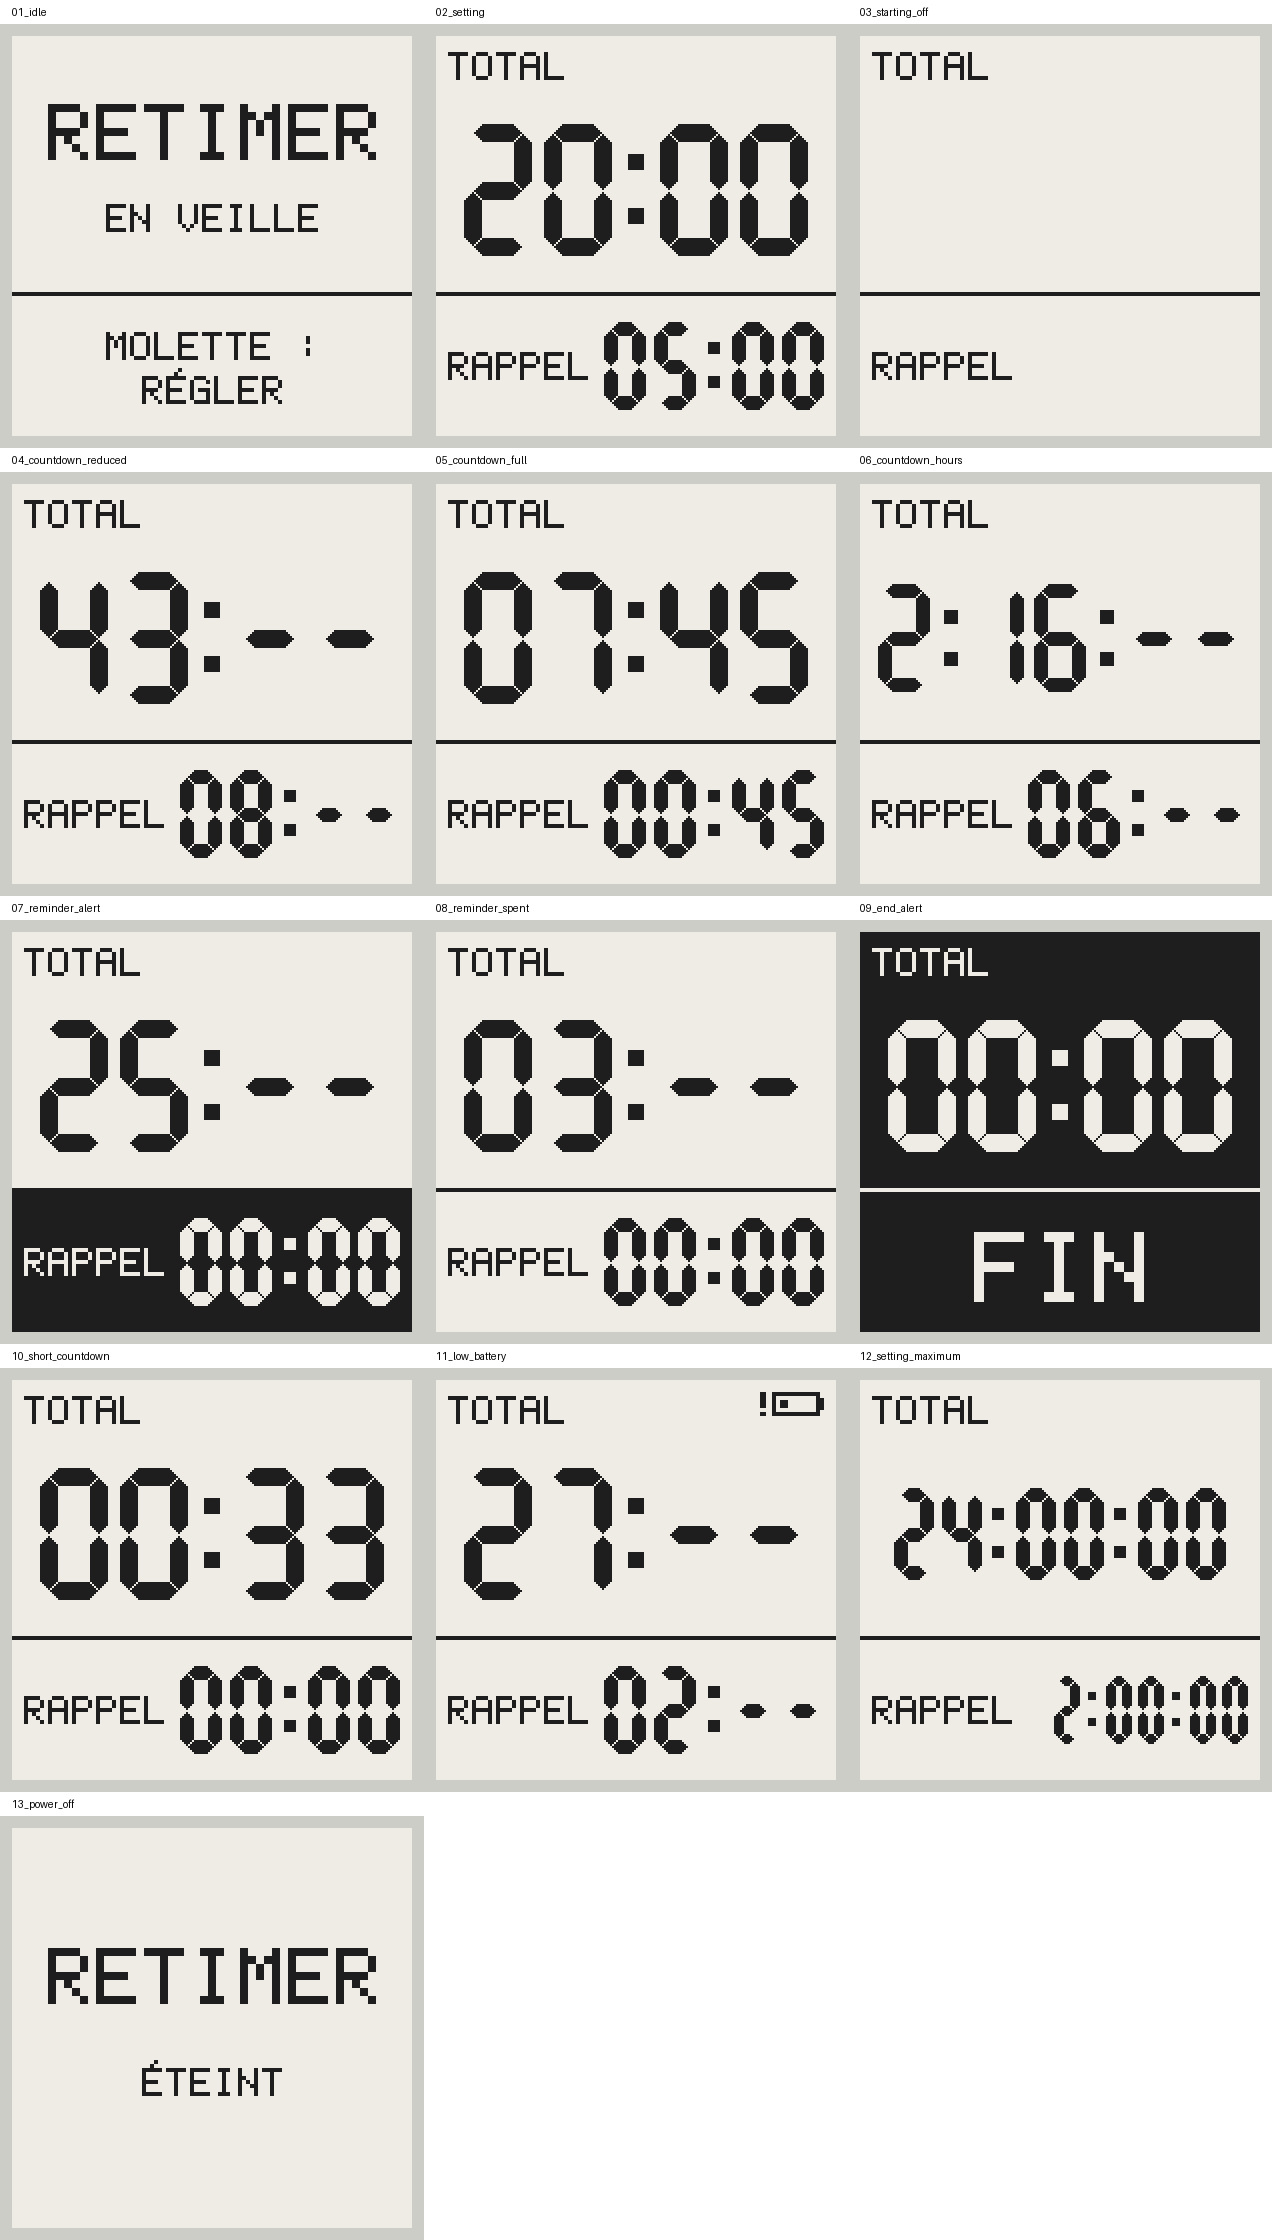
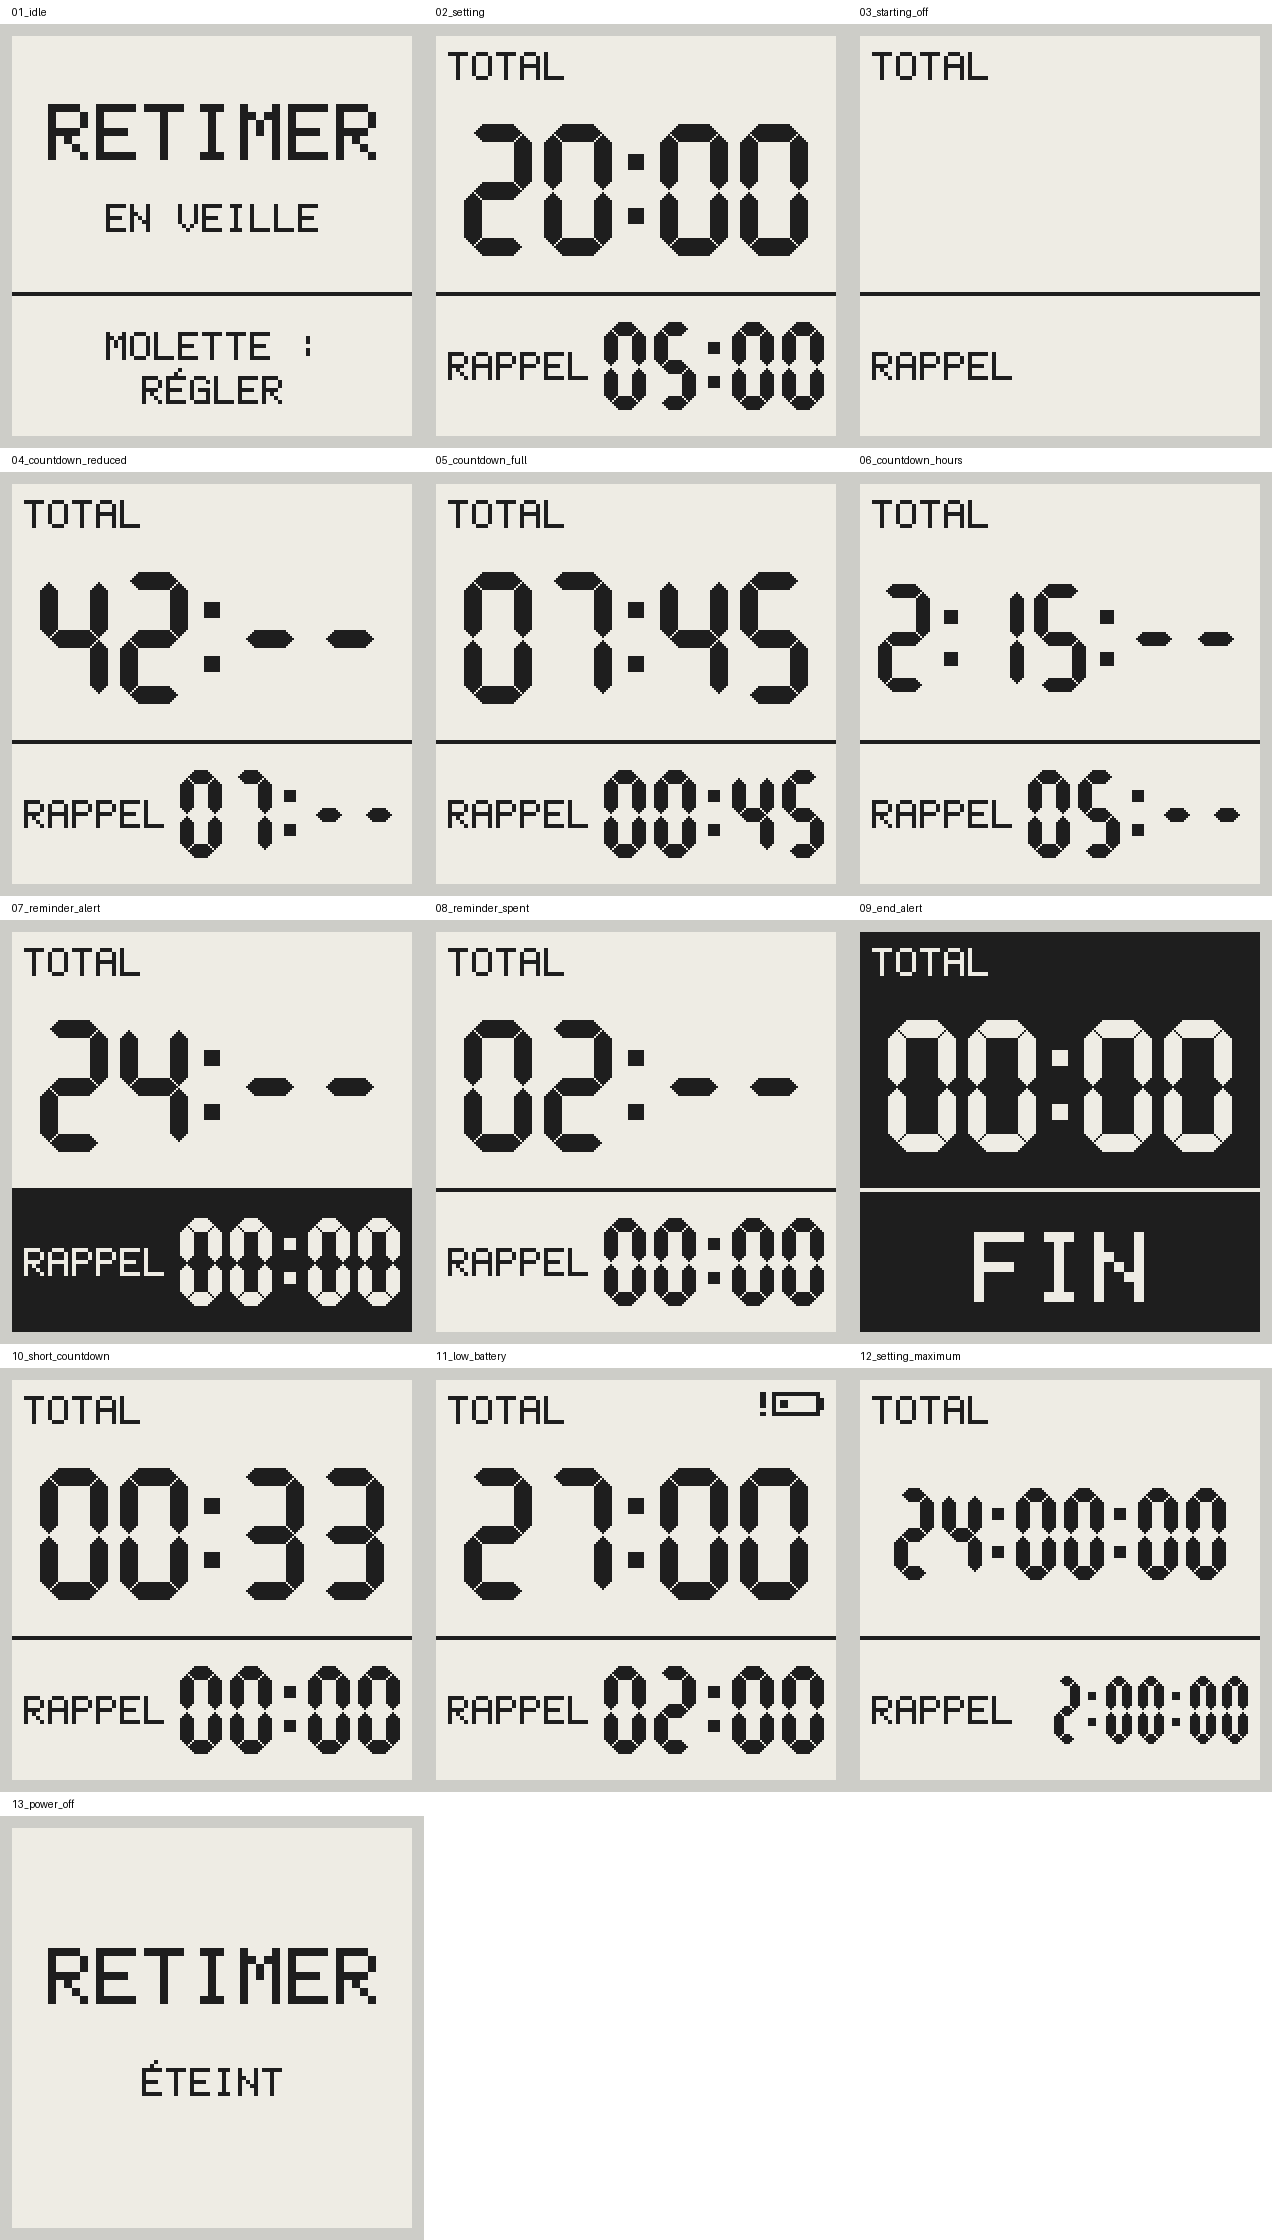
Soirée 2 : rappel limité à la globale, affichage réduit cohérent
Retours de Benoît pendant la soirée 2 :
- le rappel ne propose que des intervalles inférieurs à la globale
  affichée (avec 2:00 : 1 min, puis arrêt) ;
- MAT-04 : « mm:-- » montre les minutes de l'affichage complet
  (1:59 donne « 01:-- », et non « 02:-- ») ;
- CST-08 : affichage complet sous 2 min au lieu de 1 min ;
- MOD-01, MOD-02 : affichage complet pendant 5 s après un réglage en
  cours de décompte, pour voir la valeur réglée.

Claude-Session: https://claude.ai/code/session_01D69WSQ6jVZk4PBhdDypCqP

diff --git a/components/kitchen_timer/kitchen_timer.c b/components/kitchen_timer/kitchen_timer.c
@@ -70,6 +70,7 @@ void ktimer_init(ktimer_t *m)
     m->alert_start_ms = 0;
     m->limit_ms = KTIMER_NEVER;
     m->last_action_ms = 0;
+    m->full_until_ms = 0;
 }
 
 uint32_t ktimer_advance(ktimer_t *m, int64_t now)
@@ -166,6 +167,7 @@ uint32_t ktimer_set_total(ktimer_t *m, int64_t now,
         }
         /* MOD-01, MOD-03 : le décompte continue depuis la nouvelle valeur. */
         m->end_ms = now + new_total_ms;
+        m->full_until_ms = now + CST_FULL_DISPLAY_AFTER_ADJUST_MS;
         return signals;
     }
     return signals;
@@ -199,6 +201,7 @@ uint32_t ktimer_set_reminder(ktimer_t *m, int64_t now,
 
     case STATE_RUNNING:
         m->interval_ms = new_interval_ms;
+        m->full_until_ms = now + CST_FULL_DISPLAY_AFTER_ADJUST_MS;
         if (new_interval_ms == 0) {
             /* ACQ-02 : acquitte et désactive pour la suite du décompte. */
             m->reminder_alert = false;
@@ -340,7 +343,8 @@ void ktimer_view(const ktimer_t *m, int64_t now,
             view->reminder_ms = reminder_remaining;
             reminder_active = true;
         }
-        view->reduced = reduced_display(view->total_ms, reminder_active,
+        view->reduced = now >= m->full_until_ms &&
+                        reduced_display(view->total_ms, reminder_active,
                                         reminder_remaining);
         break;
     }
@@ -356,19 +360,22 @@ void ktimer_view(const ktimer_t *m, int64_t now,
 }
 
 /*
- * Prochain changement d'un affichage arrondi au pas supérieur : la valeur
- * affichée est ceil(restant / pas) ; elle change quand restant atteint le
- * multiple du pas immédiatement inférieur.
+ * Prochain changement de l'affichage. Complet : la valeur affichée est
+ * s = ceil(restant / 1 s) ; elle change quand restant atteint (s - 1) s.
+ * Réduit : les minutes de l'affichage complet, s / 60 ; elles changent quand
+ * s passe à 60 × (s / 60) - 1 (render_format_duration).
  */
-static int64_t next_change(int64_t deadline, int64_t now,
-                           int64_t step_size)
+static int64_t next_change(int64_t deadline, int64_t now, bool reduced)
 {
     int64_t remaining = deadline - now;
     if (remaining <= 0) {
         return KTIMER_NEVER;
     }
-    int64_t shown = (remaining + step_size - 1) / step_size;
-    return deadline - (shown - 1) * step_size;
+    int64_t seconds = (remaining + SECOND_MS - 1) / SECOND_MS;
+    if (reduced) {
+        return deadline - ((seconds / 60) * 60 - 1) * SECOND_MS;
+    }
+    return deadline - (seconds - 1) * SECOND_MS;
 }
 
 /* Prochain changement de phase d'un motif de période donnée. */
@@ -407,8 +414,7 @@ static int64_t next_multiple(int64_t start, int64_t period,
 static int64_t display_wakeup(int64_t deadline, int64_t now,
                               bool reduced)
 {
-    int64_t t = next_change(deadline, now,
-                            reduced ? MINUTE_MS : SECOND_MS);
+    int64_t t = next_change(deadline, now, reduced);
     if (reduced) {
         /* Passage à l'affichage complet (CST-08). */
         int64_t toggle = deadline - CST_FULL_DISPLAY_THRESHOLD_MS;
@@ -446,6 +452,9 @@ int64_t ktimer_next_wakeup(const ktimer_t *m, int64_t now)
     case STATE_RUNNING:
         t = m->end_ms;
         t = min64(t, display_wakeup(m->end_ms, now, view.reduced));
+        if (m->full_until_ms > now) {
+            t = min64(t, m->full_until_ms); /* retour à l'affichage réduit */
+        }
         if (view.reminder == REMINDER_RUNNING) {
             t = min64(t, m->reminder_ms);
             t = min64(t, display_wakeup(m->reminder_ms, now,

diff --git a/test/host/test_kitchen_timer.c b/test/host/test_kitchen_timer.c
@@ -438,19 +438,44 @@ static void test_MAT_04_reduced_display(void)
 /* MAT-04 : la minuterie la plus proche de son échéance impose le rythme. */
 static void test_MAT_04_close_reminder_forces_full_display(void)
 {
-    int64_t start_value = start_countdown(M(30), M(2));
+    int64_t start_value = start_countdown(M(30), M(5));
     look(start_value + S(30));
     TEST_ASSERT_TRUE(view.reduced);
-    look(start_value + S(70));
+    look(start_value + M(3) + S(10));
+    TEST_ASSERT_FALSE(view.reduced);
+}
+
+/* MAT-04 : après un réglage pendant le décompte, on voit les secondes. */
+static void test_MAT_04_full_display_after_adjust(void)
+{
+    int64_t start_value = start_countdown(M(10), 0);
+    int64_t t = start_value + M(1);
+    look(t);
+    TEST_ASSERT_TRUE(view.reduced);
+    ktimer_set_total(&m, t, M(12));
+    look(t);
+    TEST_ASSERT_FALSE(view.reduced);
+    /* Réveil chaque seconde, puis retour à l'affichage réduit. */
+    TEST_ASSERT_EQUAL_INT64(t + S(1), ktimer_next_wakeup(&m, t + 1));
+    TEST_ASSERT_EQUAL_INT64(t + CST_FULL_DISPLAY_AFTER_ADJUST_MS,
+                            ktimer_next_wakeup(
+                                &m, t + CST_FULL_DISPLAY_AFTER_ADJUST_MS - 1));
+    look(t + CST_FULL_DISPLAY_AFTER_ADJUST_MS);
+    TEST_ASSERT_TRUE(view.reduced);
+    /* Pareil pour le rappel. */
+    ktimer_set_reminder(&m, t + S(20), M(5));
+    look(t + S(20));
     TEST_ASSERT_FALSE(view.reduced);
 }
 
 /* GEN-05 : en affichage réduit, un réveil par minute au plus. */
 static void test_GEN_05_wakeup_each_minute_in_reduced_display(void)
 {
+    /* 9:59 s'affiche « 09:-- » ; « 08:-- » à 8:59, une minute plus tard. */
     int64_t start_value = start_countdown(M(10), 0);
     int64_t t = start_value + S(1);
-    TEST_ASSERT_EQUAL_INT64(start_value + M(1), ktimer_next_wakeup(&m, t));
+    TEST_ASSERT_EQUAL_INT64(start_value + M(1) + S(1),
+                            ktimer_next_wakeup(&m, t));
 }
 
 /* GEN-05 : en affichage complet, un réveil par seconde, sur le changement. */
@@ -466,9 +491,10 @@ static void test_GEN_05_wakeup_each_second_in_full_display(void)
 /* GEN-05 : passage de l'affichage réduit au complet au bon instant. */
 static void test_GEN_05_wakeup_when_switching_to_full_display(void)
 {
-    int64_t start_value = start_countdown(M(2) + S(30), 0);
-    int64_t t = start_value + M(1) + S(10); /* reste 1:20 */
-    TEST_ASSERT_EQUAL_INT64(start_value + M(1) + S(30),
+    int64_t start_value = start_countdown(M(3) + S(30), 0);
+    int64_t t = start_value + M(1); /* reste 2:30, « 02:-- » */
+    TEST_ASSERT_EQUAL_INT64(start_value + M(3) + S(30) -
+                                CST_FULL_DISPLAY_THRESHOLD_MS,
                             ktimer_next_wakeup(&m, t));
 }
 
@@ -535,6 +561,7 @@ int main(void)
     RUN_TEST(test_PLG_03_short_countdown);
     RUN_TEST(test_MAT_04_reduced_display);
     RUN_TEST(test_MAT_04_close_reminder_forces_full_display);
+    RUN_TEST(test_MAT_04_full_display_after_adjust);
     RUN_TEST(test_GEN_05_wakeup_each_minute_in_reduced_display);
     RUN_TEST(test_GEN_05_wakeup_each_second_in_full_display);
     RUN_TEST(test_GEN_05_wakeup_when_switching_to_full_display);

diff --git a/test/host/test_adjust.c b/test/host/test_adjust.c
@@ -123,18 +123,29 @@ static void test_PLG_02_reminder_walks_the_list(void)
 {
     int64_t v = 0;
     for (size_t i = 1; i < CST_REMINDER_INTERVAL_COUNT; i++) {
-        v = adjust_next_reminder(v);
+        v = adjust_next_reminder(v, 0);
         TEST_ASSERT_EQUAL_INT64(CST_REMINDER_INTERVALS_MS[i], v);
     }
     TEST_ASSERT_EQUAL_INT64(H(2), v);
-    TEST_ASSERT_EQUAL_INT64(0, adjust_next_reminder(v));
+    TEST_ASSERT_EQUAL_INT64(0, adjust_next_reminder(v, 0));
 }
 
 /* Une valeur hors liste passe à la suivante de la liste. */
 static void test_PLG_02_reminder_not_in_list(void)
 {
-    TEST_ASSERT_EQUAL_INT64(M(5), adjust_next_reminder(M(4)));
-    TEST_ASSERT_EQUAL_INT64(0, adjust_next_reminder(H(3)));
+    TEST_ASSERT_EQUAL_INT64(M(5), adjust_next_reminder(M(4), 0));
+    TEST_ASSERT_EQUAL_INT64(0, adjust_next_reminder(H(3), 0));
+}
+
+/* Le rappel ne dépasse pas la globale : avec 2:00, seulement 1 min. */
+static void test_PLG_02_reminder_below_total(void)
+{
+    TEST_ASSERT_EQUAL_INT64(M(1), adjust_next_reminder(0, M(2)));
+    TEST_ASSERT_EQUAL_INT64(0, adjust_next_reminder(M(1), M(2)));
+    TEST_ASSERT_EQUAL_INT64(M(3), adjust_next_reminder(M(2), M(3) + 1));
+    TEST_ASSERT_EQUAL_INT64(0, adjust_next_reminder(M(2), M(3)));
+    /* Globale sous la première valeur : le rappel reste à l'arrêt. */
+    TEST_ASSERT_EQUAL_INT64(0, adjust_next_reminder(0, S(45)));
 }
 
 int main(void)
@@ -151,6 +162,7 @@ int main(void)
     RUN_TEST(test_PLG_03_short_countdown);
     RUN_TEST(test_REG_01_round_trip);
     RUN_TEST(test_REG_03_held_while_counting_down);
+    RUN_TEST(test_PLG_02_reminder_below_total);
     RUN_TEST(test_PLG_02_reminder_walks_the_list);
     RUN_TEST(test_PLG_02_reminder_not_in_list);
     return UNITY_END();

diff --git a/components/constants/include/constants.h b/components/constants/include/constants.h
@@ -108,8 +108,17 @@ extern const size_t CST_REMINDER_INTERVAL_COUNT;
 /* MAT-04 : affichage réduit (« 12:-- ») pour les longs décomptes. */
 #define CST_REDUCED_DISPLAY true
 
-/* CST-08 : en dessous de ce temps restant, l'affichage redevient complet. */
-#define CST_FULL_DISPLAY_THRESHOLD_MS (1 * MINUTE_MS)
+/*
+ * CST-08 : à ce temps restant et en dessous, l'affichage redevient complet.
+ * Soirée 2 : sous 2 min, on a besoin des secondes.
+ */
+#define CST_FULL_DISPLAY_THRESHOLD_MS (2 * MINUTE_MS)
+
+/*
+ * MAT-04 : après un réglage pendant le décompte, l'affichage reste complet
+ * ce temps-là, pour voir la valeur qu'on règle (soirée 2).
+ */
+#define CST_FULL_DISPLAY_AFTER_ADJUST_MS (5 * SECOND_MS)
 
 /* DEM-02 : période du clignotement de démarrage imminent (allumé + éteint). */
 #define CST_BLINK_PERIOD_MS (1 * SECOND_MS)

diff --git a/components/adjust/adjust.c b/components/adjust/adjust.c
@@ -77,11 +77,15 @@ int64_t adjust_total(int64_t value_ms, adjust_direction_t direction,
     return updated;
 }
 
-int64_t adjust_next_reminder(int64_t interval_ms)
+int64_t adjust_next_reminder(int64_t interval_ms, int64_t total_ms)
 {
     for (size_t i = 0; i < CST_REMINDER_INTERVAL_COUNT; i++) {
-        if (CST_REMINDER_INTERVALS_MS[i] > interval_ms) {
-            return CST_REMINDER_INTERVALS_MS[i];
+        int64_t candidate = CST_REMINDER_INTERVALS_MS[i];
+        if (total_ms > 0 && candidate >= total_ms) {
+            break;
+        }
+        if (candidate > interval_ms) {
+            return candidate;
         }
     }
     return 0; /* après le dernier : arrêt (ACQ-02) */

diff --git a/components/render/render.c b/components/render/render.c
@@ -289,8 +289,12 @@ void render_format_duration(int64_t duration_ms, bool reduced, char *out)
         duration_ms = CST_TOTAL_MAX_MS;
     }
     if (reduced) {
-        /* MAT-04 : minutes arrondies au-dessus, sans les secondes. */
-        int minutes = (int)((duration_ms + MINUTE_MS - 1) / MINUTE_MS);
+        /*
+         * MAT-04 : les minutes de l'affichage complet, sans les secondes.
+         * 2:59 s'affiche « 02:-- », comme « 02:59 » (soirée 2).
+         */
+        int64_t seconds = (duration_ms + SECOND_MS - 1) / SECOND_MS;
+        int minutes = (int)(seconds / 60);
         int h = (minutes / 60) % 100;
         int m = minutes % 60;
         if (h > 0) {

diff --git a/components/adjust/include/adjust.h b/components/adjust/include/adjust.h
@@ -36,7 +36,10 @@ int64_t adjust_total(int64_t value_ms, adjust_direction_t direction,
 /*
  * Intervalle de rappel suivant dans CST_REMINDER_INTERVALS_MS : le premier
  * strictement supérieur à interval_ms, ou 0 (« arrêt ») après le dernier.
+ * Si total_ms est positif, la liste s'arrête aux intervalles strictement
+ * inférieurs à total_ms : un rappel qui ne sonnerait qu'après la fin ne sert
+ * à rien (retour de Benoît, soirée 2). total_ms = 0 : pas de limite.
  */
-int64_t adjust_next_reminder(int64_t interval_ms);
+int64_t adjust_next_reminder(int64_t interval_ms, int64_t total_ms);
 
 #endif /* ADJUST_H */

diff --git a/main/main.c b/main/main.c
@@ -102,7 +102,8 @@ static uint32_t apply(const input_event_t *ev, int64_t now)
     }
     case EV_NEXT_REMINDER: {
         int64_t start_value = view.state == STATE_FINISHED ? 0 : m->interval_ms;
-        int64_t new_interval = adjust_next_reminder(start_value);
+        int64_t total = view.state == STATE_FINISHED ? 0 : view.total_ms;
+        int64_t new_interval = adjust_next_reminder(start_value, total);
         ESP_LOGI(TAG, "rappel %lld -> %lld ms", (long long)start_value,
                  (long long)new_interval);
         return ktimer_set_reminder(m, now, new_interval);

diff --git a/components/kitchen_timer/include/kitchen_timer.h b/components/kitchen_timer/include/kitchen_timer.h
@@ -55,6 +55,11 @@ typedef struct {
     int64_t limit_ms;
     /* Démarrage : instant de la dernière action (phase du clignotement). */
     int64_t last_action_ms;
+    /*
+     * Décompte : affichage complet jusqu'à cet instant après un réglage
+     * (CST_FULL_DISPLAY_AFTER_ADJUST_MS), pour voir la valeur réglée.
+     */
+    int64_t full_until_ms;
 } ktimer_t;
 
 /* Ce que la minuterie rappel montre à l'écran. */

diff --git a/test/host/test_render.c b/test/host/test_render.c
@@ -95,7 +95,9 @@ static void test_CMD_05_duration_format(void)
 static void test_MAT_04_reduced_format(void)
 {
     check_format(M(12), true, "12:--");
-    check_format(M(11) + 1, true, "12:--");
+    check_format(M(12) + S(59), true, "12:--");
+    check_format(M(11) + S(59) + 1, true, "12:--");
+    check_format(M(11) + S(59), true, "11:--");
     check_format(H(2) + M(30), true, "2:30:--");
 }
 

diff --git a/docs/verifications-carte.md b/docs/verifications-carte.md
@@ -104,6 +104,9 @@ Flasher de nouveau le diagnostic, puis le firmware.
 | E12 | Firmware : régler 10:00 ; lancer le chronomètre du téléphone **à la fin du clignotement** (départ du décompte), l'arrêter au bip de fin. | 10:00 au chronomètre, à 1 s près (C8, nouvelle horloge lente). Au-delà, recaler sur la BM8563. | |
 | E13 | Diagnostic, étape 7 : appuyer sur la molette bas pendant la veille profonde. | Pas de réveil : c'est voulu, seuls la molette haut et le bouton sous la molette réveillent (coreink.md, section 4). Le réveil de B12 par la molette bas (`bouton 0` après 3,4 s) date de l'ancien réglage et n'est plus possible. | |
 | E14 | Firmware, sur batterie : lancer un décompte de 5 min, puis brancher l'USB **sur un chargeur secteur** (pas le Mac). Refaire en branchant sur le Mac, `monitor` fermé. | Le décompte continue. Soirée 1 : au branchement sur le Mac, l'écran est revenu à « RETIMER EN VEILLE », sans doute une remise à zéro par la puce USB (broche EN), ce qui expliquerait aussi B13. | |
+| E15 | Firmware : globale à 2:00, puis appuyer plusieurs fois sur le bouton sous la molette. | Le rappel passe à 01:00, puis revient à 00:00 ; il ne dépasse jamais la globale. | |
+| E16 | Firmware : décompte de 5 min. Regarder l'affichage à 4:30, puis sous 2:00. | « 04:-- » à 4:30 (les minutes de 04:30) ; les secondes réapparaissent à 2:00. | |
+| E17 | Firmware : pendant un décompte en « 04:-- », donner un cran de molette. | Les secondes réapparaissent tout de suite avec la nouvelle valeur, pendant 5 s, puis retour à « mm:-- ». Rappel : une fois le décompte parti, un cran modifie le temps sans relancer le délai de 3 s (MOD-01). | |
 | E8 | Bloc C de la soirée 1 (C1 à C9), avec le bouton sous la molette pour le rappel. | Voir C1 à C9. | |
 
 ## Ce que les résultats changent

diff --git a/CLAUDE.md b/CLAUDE.md
@@ -99,7 +99,13 @@ dessous. Chaque commande se trouve ainsi à côté de la valeur qu'elle règle.
 | Bouton sous la molette, maintenu 3 s | Extinction de l'appareil ; le même bouton l'allume (circuit d'alimentation). L'appui d'allumage ne compte pas comme un réglage du rappel. | — |
 
 La liste des intervalles de rappel est une table de constantes (GEN-06), par
-exemple : arrêt, 1, 2, 3, 5, 10, 15, 20, 30, 45, 60, 90, 120 min.
+exemple : arrêt, 1, 2, 3, 5, 10, 15, 20, 30, 45, 60, 90, 120 min. La liste
+s'arrête aux intervalles inférieurs à la minuterie globale affichée : avec
+2:00, seul 1 min est proposé (soirée 2).
+
+Affichage réduit (MAT-04) : « 12:-- » montre les minutes de l'affichage
+complet (12:59 donne « 12:-- »). Il redevient complet sous 2 min (CST-08) et
+pendant 5 s après chaque réglage, pour voir la valeur qu'on règle.
 
 Ce qui reste conforme à SPEC.md :
 
